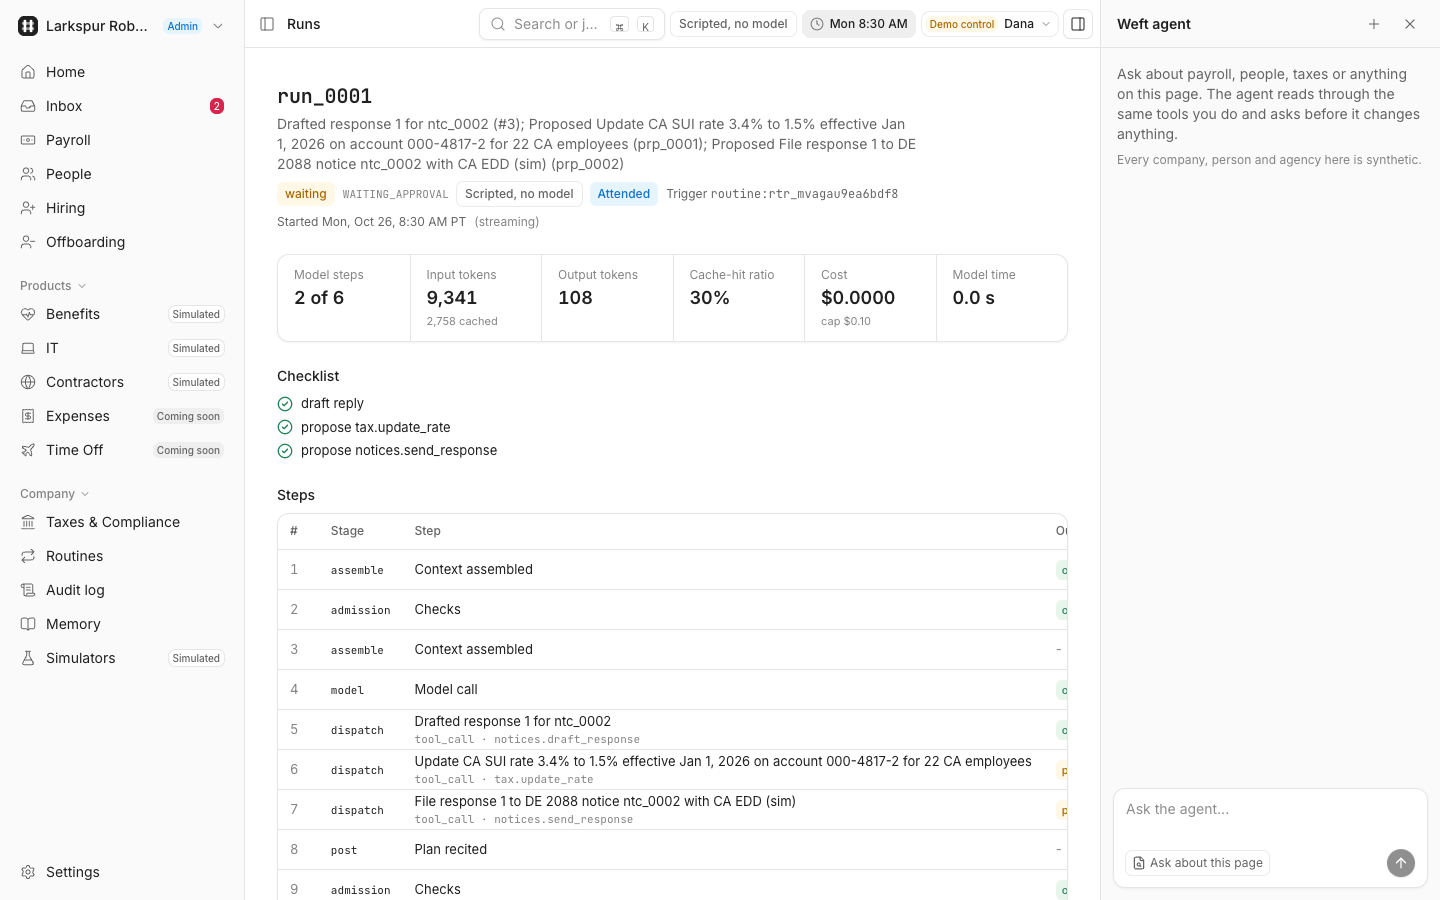
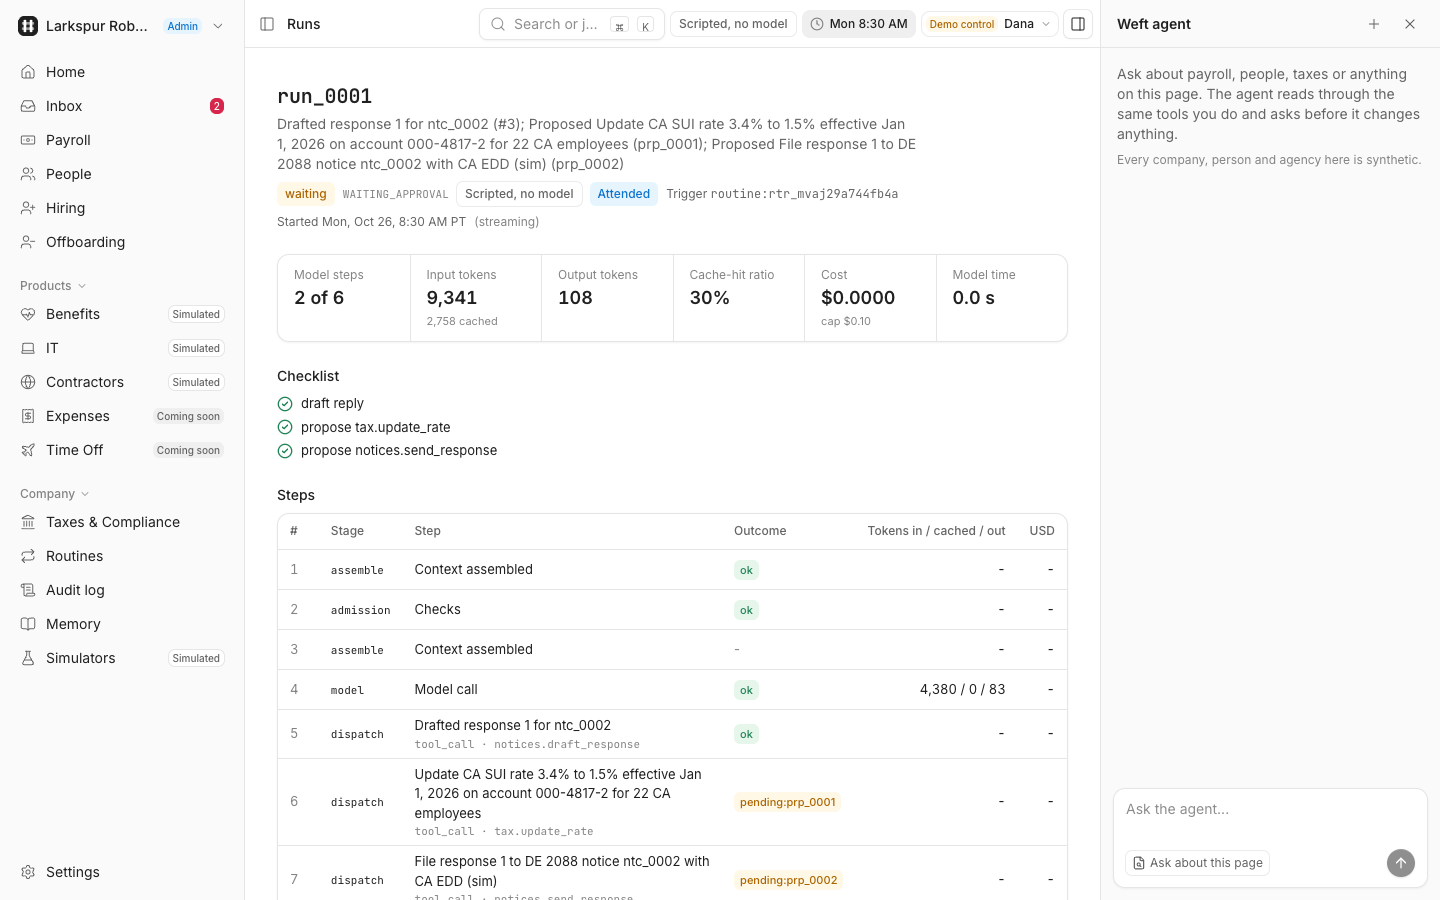
docs: record the polish merge, its gate and the retaken screenshots
docs/status.md and docs/review-log.md list what the four polish branches and the integration fixes changed, the gate on a fresh clone (test 624 of 624, typecheck, build, e2e 31 of 31 twice, demo, lint:prose, lint:brand, brand:overlap) and what is still open. README drops the fixed one-pager UTC item and the cut-off Outcome note, and adds the open times, chat card and brand items. pnpm screenshots retook the captures the run view, Inbox and times changes touched.

diff --git a/docs/review-log.md b/docs/review-log.md
@@ -1,5 +1,34 @@
 # Review log
 
+## Polish round: four polish branches merged (2026-10-15, 22:07 to 22:32 PDT)
+
+`polish/reset`, `polish/brand`, `polish/times` and `polish/ui` were cut from main at 42e618f and merged in that order.
+Two conflicts, both resolved by keeping both sides: `packages/executor/src/index.ts` (the `serialGit` export and the
+time helpers) and `apps/web/src/components/app/inbox/proposal-card.tsx` (the proposer's note label with the note text
+in Pacific time).
+
+| Branch | Finding | Fix | Commit subject |
+|---|---|---|---|
+| polish/reset | `POST /v1/sim/reset` answered 500 under load: it dropped every table, then `rmSync` of `<dataDir>/companies` hit ENOTEMPTY from an in-flight memory `git` process, leaving no tables; concurrent resets and work started before a reset also corrupted the rebuilt world | Resets run one at a time on the scheduler's tick chain after agent runs and routine finalizations settle, remove the repos on the git queue first and seed under the write lock; a 500's stack goes to `<dataDir>/run/errors.log` under tests | fix(sim): settle background work and serialize POST /v1/sim/reset; fix(api): log a 500's stack to <dataDir>/run/errors.log under tests |
+| polish/brand | `research/` and `SPEC.md` still shared runs of 8 to 23 words with the saved reference pages (14 hits) | Restated in Weft's own words; new `pnpm brand:overlap` fails on any 8-word run shared with the saved pages, with an empty allowlist that needs a reason per entry; in CI it skips | docs(research): restate the remaining reference-site copy in our own words; scripts: add pnpm brand:overlap, a shared-run check against the reference pages |
+| polish/times | The one-pager printed the approve-by time as a raw UTC timestamp; dossiers, summaries, preferences and the Inbox, run view, agent panel and audit log showed raw ISO instants | Human-facing times read in Pacific time (`packages/executor/src/memory/time.ts`, `humanTimes()` in the web format module); stored text, keys and frontmatter stay ISO | fix(memory): human-facing times in memory files read in Pacific time; fix(web): inbox, run view and audit log show server times in Pacific time |
+| polish/ui | The run view's Outcome column was cut off at 1440 px with the panel docked, and the paycheck table needed a 640 px minimum | Step titles wrap and optional columns step aside by card width; the 1440 and 390 px layout spec now checks the scroll wrapper too | fix(web): run Steps and paycheck columns stay in view at 1440 docked and 390 |
+| polish/ui | The Inbox card called every note the agent's, even on Dana's own off-cycle proposal | The card reads who proposed (routine run, agent, or person) for the note label and a Proposed by field | fix(web): label Inbox notes and sources by who proposed the change |
+| Integration | Run step numbers kept counting after a reset (#88 on a fresh run), found on polish/ui: the run store cached each run id's next step number and run ids restart at run_0001 | `createRun` drops the cached counter for its id; `packages/agent/test/store.test.ts` | fix(agent): a run's steps count from 1 after POST /v1/sim/reset reuses its id |
+| Integration | With step numbers restarting, `pnpm e2e` failed GP3 and GP4 twice: the executor keeps each run's batch state in memory by run id and `step:<n>`, so GP4's digest (run_0001 again) inherited GP3's pending batch and its post became a proposal | The RunAuthority clears the batch state for every id it mints; `packages/executor/test/pipeline.test.ts` | fix(executor): a run minted with a reused id starts with a fresh batch |
+| Integration | The two seed determinism tests timed out at 5 s under a load average of 14 to 28 on polish/brand and polish/times | 30 s timeout for those two tests | test: the two seed determinism tests get 30 s under machine load |
+
+On a fresh scratch clone of the merged main (22:23 to 22:30 PDT, load average 4 to 11): install ok, `pnpm test` 624
+of 624 (118 files), `pnpm typecheck` 15 of 15, build ok, `pnpm e2e` 31 of 31 twice (ports 4560, 4561 and 4564),
+`pnpm demo` exit 0 (GP1 to GP12, audit chain verifies), `lint:prose --commits 42e618f..HEAD`, `lint:brand` and `brand:overlap`
+against the main checkout's reference folder all ok. Before the executor fix, both e2e runs failed GP3 and GP4 the
+same way. `pnpm screenshots` retook the run view, Inbox, audit, off-cycle, offboarding, memory and landing captures.
+
+Still open, recorded in the README's left list: the chat approval card is always posted as the Weft agent; routine
+trigger refs, hourly summary titles and server-side text stay ISO or UTC; `brand:overlap` covers only the 4 saved
+reference pages; and git history still holds the earlier verbatim research lines, which only a history rewrite
+removes (Nitish's call).
+
 ## Wave 2: final review of main at 5e30a37 (2026-10-15, 20:30 to 21:45 PDT)
 
 Three lenses (correctness and security, harness, product and brand) reviewed main at 5e30a37. Every finding below was
@@ -146,4 +175,4 @@ admin and cli keys on purpose, because their routes accept API keys.
 | Design | simulators: no staged run feed reveal when a run finishes before first paint; approve gives no result strip | Interaction work across three components; next design round |
 | Design | landing: no mobile menu, missing agent showcase and run log sections, hero mock reflows at 390, dark island density, stat tile spacing | New sections and responsive work; next design round. The heading line height and the API path in the Numbers heading are fixed |
 | Design | Bank batches raw headers, empty states without a next step, humanized enums and run id crumbs everywhere | Small but spread over many files; next design round |
-| Brand | research/ quotes reference marketing lines verbatim and they are in git history | The working files are paraphrased in wave 2 (w2-reliability); the history still holds the old lines. The repo is local only and never pushed. Before any publish, paraphrase research/product.md and research/agent.md or move them out of the tracked tree and rewrite history |
+| Brand | research/ quotes reference marketing lines verbatim and they are in git history | The working files are paraphrased (w2-reliability, then polish/brand) and pass `pnpm brand:overlap`, which fails on any 8-word run shared with the saved reference pages. The history still holds the old lines. The repo is local only and never pushed. Before any publish, rewrite history |

diff --git a/README.md b/README.md
@@ -137,8 +137,7 @@ Screenshots were retaken with the new `pnpm screenshots` (`e2e/screens/capture.s
 
 - `01-landing`, `01b-landing-full` (full page) and `12-landing-mobile` (390 by 844).
 - `02-app-home` (Home as Dana: 48 active employees, 0 onboarding) and `03-simulators`.
-- `04-agent-run`: the agency notice run after the DE 2088 notice, waiting for approval. The Outcome column of its
-  Steps table is cut off at this width (see What is stubbed or left).
+- `04-agent-run`: the agency notice run after the DE 2088 notice, waiting for approval.
 - `05-inbox`: the SUI rate change and the filed response, waiting.
 - `06-payroll` and `07-payroll-draft`: the Oct 16 to 31 draft after the pre-payroll review (4 need review, 1 blocked),
   its submit waiting in the Inbox.
@@ -208,7 +207,15 @@ time; the action chain verifies at the end of every scenario.
 - The offer builder has no Manager or Workplace field: the manager defaults to the department lead and the hire lands
   as Remote US (the API accepts `manager_id` and `workplace_id`).
 - Open enrollment reminders go to each person by email; #general gets only an anonymous count.
-- Seen in the final gate: the company one-pager prints the payroll approve-by time as a raw UTC timestamp.
+- Times: memory files and the Inbox, run view, agent panel and audit log show Pacific time, but the stored text and
+  what the model and MCP clients receive stay ISO (tool summaries, signature lines, refusal messages, prompt context).
+  Routine trigger refs (`cron:<iso>`) are identifiers and stay raw in Routines, hourly summary titles keep their UTC
+  period key, and daily, weekly and monthly summaries are still UTC buckets.
+- The proposal notifier posts every chat approval card as the Weft agent, even for a proposal a person made; the
+  Inbox card itself names the proposer.
+- Brand: the working files pass `pnpm brand:overlap` against the 4 saved reference pages (home, agent, payroll,
+  pricing). Pages that were read but not saved were checked by hand only, and git history still holds the earlier
+  verbatim research lines, so a public release needs a history rewrite first.
 - Set aside in the final review (reasons in [docs/review-log.md](docs/review-log.md)): a person's UI session still runs
   R4 money movers through `POST /v1/tools` directly (SPEC 10; API keys now get proposals); `code.run` holds the write
   lock for the whole script; recall lines lack the untrusted wrapper and sit outside the pack budget; the memory digest

diff --git a/docs/status.md b/docs/status.md
@@ -1,5 +1,16 @@
 # Status
 
+## Polish merge (2026-10-15, 22:32 PDT)
+
+`polish/reset` (the sim reset 500), `polish/brand` (reference copy restated, `pnpm brand:overlap`), `polish/times`
+(Pacific time in memory files and the app's run, Inbox, agent and audit views) and `polish/ui` (run and paycheck tables
+fit at 1440 docked and 390, the Inbox names who proposed) are merged on main. Integration fixes: a run's step numbers
+restart at 1 after a reset, a run minted with a reused id no longer inherits the earlier run's batch state (that bug
+failed GP3 and GP4 once step numbers restarted), and the two seed determinism tests get 30 s under load. On a fresh
+clone: `pnpm test` 624 of 624, typecheck 15 of 15, build ok, `pnpm e2e` 31 of 31 twice, `pnpm demo` exit 0, and
+lint:prose, lint:brand and brand:overlap ok. Screenshots retaken. Details and what is still open are in
+`docs/review-log.md` under "Polish round".
+
 ## Final wave 2 gate (2026-10-15, 21:17 PDT)
 
 On a fresh clone of main at `d62153c`, after the final review fixes: `pnpm test` 596 of 596 (112 files), `pnpm typecheck`
@@ -7,8 +18,9 @@ On a fresh clone of main at `d62153c`, after the final review fixes: `pnpm test`
 78 of 78, both lints ok, and `pnpm dev --fresh` serves every wave 2 screen. Live L1, L2, L4 and L3 three times pass on
 Luna for $0.0078 (ledger $0.0431 of $0.50). Screenshots were retaken with the new `pnpm screenshots`. A rerun at `583333d`
 under heavy machine load passed `pnpm e2e` 27 of 30 (the fixture's `POST /v1/sim/reset` answered 500 three times) and
-then 30 of 30. The cause, a reset racing a memory `git` process and other background work, is fixed on `polish/reset`.
-The numbers, the live table and what is still left are in the README under Results and What is stubbed or left.
+then 30 of 30. The cause, a reset racing a memory `git` process and other background work, is fixed by `polish/reset`,
+now merged. The numbers, the live table and what is still left are in the README under Results and What is stubbed
+or left.
 
 ## Wave 2 integration (2026-10-15, 20:00 PDT)
 
